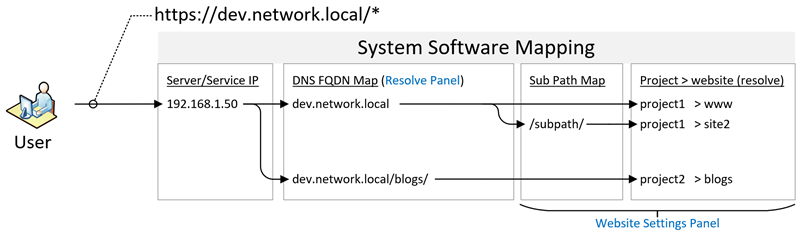
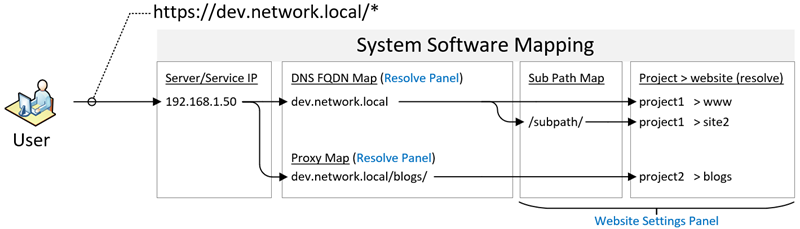
update help files

diff --git a/server/localhost/help/documents/7_Advanced_Uses/7-1_Project_Configuration_Files.html b/server/localhost/help/documents/7_Advanced_Uses/7-1_Project_Configuration_Files.html
@@ -1,8 +1,268 @@
 
 
-<h3>Project Configuration File</h3>
+<h1>Project Configuration Files</h1>
 <p>
-	The following is an example of the '<blue>config.json</blue>' file. Each project will have one of these which the server read and maps the websites vhost preview in Management UI, proxy mapping and DNS FQDN names via environment, maintenance mode for given website, error pages, and a series of sections like API mapping (server side execute), static path content and server execute overrides.
+   Each project has a configuration file associated with it that holds all the configuration settings needed for the VHost server process to register and map incoming requests to project websites. If the server is set to auto refresh, and making changes to these files, the system periodically reads the datestamp and sees a change had happened and will trigger a reload of the configuration file. If auto refresh is turned off it needs a server restart to reload the configuration files. These files can be modified or created manually and does not need the Management UI. The Management UI is basically a website hosted by the VHost server like any other website and is more of a helper UI that provides tools to manage these configurations. You could have other processes like script automation generate a configuration file with the website content and have a server process start up with the Managment UI turned off and even the source files removed if you want to prevent a Management UI from being enabled.
+   <br /><br />
+   The content files in the project are not monitored. The server will not reload a configuration for that type of change. If you added an API folder and put in files to run from the server, it will not reload until you have updated the configuration with the rules to tell it what to do with them. There is a cache setting however where it will unload any files that were run from the server after they execute. That is not related to configuration files changes.
+</p>
+<br />
+<h3>New Config</h3>
+<p>
+   When starting a new empty project the Managment UI creates a project folder in the '<blue>web_source</blue>' folder with a single '<blue>config.json</blue>' file (like below). Each project will have a similar layout with the general project settings, '<blue>proxy_map</blue>' section, '<blue>dns_names</blue>' section and '<blue>websites</blue>' parameters section.
+</p>
+<pre>
+   {
+      "project_desc": "New project",
+      "enabled": true,
+      "proxy_map": {
+          "dev": {},
+          "qa": {},
+          "stage": {},
+          "prod": {}
+      },
+      "dns_names": {
+          "dev": {},
+          "qa": {},
+          "stage": {},
+          "prod": {}
+      },
+      "websites": {}
+  }   
+</pre>
+<br />
+<p>
+   The following table breaks down the sections of a project configuration:
+</p>
+<div class="grid3">
+   <div class="grid1_sub_head">Section</div>
+   <div class="grid1_sub_head">Settings</div>
+   <div class="grid1_sub_head">Description</div>
+
+   <div class="grid1_col">project_desc</div>
+   <div class="grid1_col"><blue>text</blue></div>
+   <div class="grid1_col">Used only in the Management UI for project information</div>
+
+   <div class="grid1_col">enabled</div>
+   <div class="grid1_col"><blue>true</blue><br /><blue>false</blue></div>
+   <div class="grid1_col">Used to disable a project which unregisters any DNS or Proxy mapping</div>
+   
+   <div class="grid1_col">
+      "proxy_map": {<br />
+      &nbsp;&nbsp;&nbsp;"dev": {},<br />
+      &nbsp;&nbsp;&nbsp;"qa": {},<br />
+      &nbsp;&nbsp;&nbsp;"stage": {},<br />
+      &nbsp;&nbsp;&nbsp;"prod": {}<br />
+      }
+   </div>
+   <div class="grid1_col">see below</div>
+   <div class="grid1_col">Proxy Map configuration</div>
+
+   <div class="grid1_col">
+      "dns_names": {<br />
+      &nbsp;&nbsp;&nbsp;"dev": {},<br />
+      &nbsp;&nbsp;&nbsp;"qa": {},<br />
+      &nbsp;&nbsp;&nbsp;"stage": {},<br />
+      &nbsp;&nbsp;&nbsp;"prod": {}<br />
+      }
+   </div>
+   <div class="grid1_col">see below</div>
+   <div class="grid1_col">DNS Map configuration</div>
+
+   <div class="grid1_col">"websites": {}</div>
+   <div class="grid1_col">see below</div>
+   <div class="grid1_col">Websites configurations</div>
+
+</div>
+<br />
+<h3>Websites Configuration Section</h3>
+<p>
+   In the '<blue>websites</blue>' configuration section, after creating a website and configuring it from the Management UI, the configuration elements will look a lot like below. All things that you see in the Management UI pertaining to the website settings are in this section. Everything from SSL redirect, maintenance mode settings, default pages, content mapping and sub mapping are in below example. If having more than one website in a project there will be multiple sections like this.
+</p>
+<pre>
+   "www": {
+      "ssl_redirect": true,
+      "maintenance": {
+         "dev": false,
+         "qa": false,
+         "stage": false,
+         "prod": false
+      },
+      "maintenance_page": "maintenance.html",
+      "maintenance_page_api": "maintenance.json",
+      "default_doc": "index.html",
+      "default_errors": {
+         "user": {
+            "404": "404.html",
+            "500": "500.html"
+         },
+         "api": {
+            "404": "404.json",
+            "500": "500.json"
+         }
+      },
+      "apis_fixed_path": {},
+      "apis_dynamic_path": {
+         "/api/": "/www/api/"
+      },
+      "path_static": {
+         "/": "/www/"
+      },
+      "path_static_server_exec": {},
+      "sub_map": {}
+   }
+</pre>
+<br />
+<p>
+   The following table breaks down the sections of a website configuration:
+</p>
+<div class="grid3">
+   <div class="grid1_sub_head">Section</div>
+   <div class="grid1_sub_head">Settings</div>
+   <div class="grid1_sub_head">Description</div>
+
+   <div class="grid1_col">ssl_redirect</div>
+   <div class="grid1_col"><blue>true</blue><br /><blue>false</blue></div>
+   <div class="grid1_col">SSL redirect uses boolean value</div>
+
+   <div class="grid1_col">
+      "maintenance": {<br />
+      &nbsp;&nbsp;&nbsp;"dev": <blue>false</blue>,<br />
+      &nbsp;&nbsp;&nbsp;"qa": <blue>false</blue>,<br />
+      &nbsp;&nbsp;&nbsp;"stage": <blue>false</blue>,<br />
+      &nbsp;&nbsp;&nbsp;"prod": <blue>false</blue><br />
+      }
+   </div>
+   <div class="grid1_col"><blue>true</blue><br /><blue>false</blue></div>
+   <div class="grid1_col">Each environment uses a boolean value</div>
+
+   <div class="grid1_col">maintenance_page</div>
+   <div class="grid1_col"><blue>filename</blue></div>
+   <div class="grid1_col">Typically an HTML file for user response</div>
+
+   <div class="grid1_col">maintenance_page_api</div>
+   <div class="grid1_col"><blue>filename</blue></div>
+   <div class="grid1_col">Typically an data type file for API response</div>
+
+   <div class="grid1_col">default_doc</div>
+   <div class="grid1_col"><blue>filename</blue></div>
+   <div class="grid1_col">Typically an HTML file for user response</div>
+
+   <div class="grid1_col">
+      "default_errors": {<br />
+      &nbsp;&nbsp;&nbsp;"user": {<br />
+      &nbsp;&nbsp;&nbsp;&nbsp;&nbsp;&nbsp;"404": "<blue>404.html</blue>",<br />
+      &nbsp;&nbsp;&nbsp;&nbsp;&nbsp;&nbsp;"500": "<blue>500.html</blue>"<br />
+      &nbsp;&nbsp;&nbsp;},<br />
+      &nbsp;&nbsp;&nbsp;"api": {<br />
+      &nbsp;&nbsp;&nbsp;&nbsp;&nbsp;&nbsp;"404": "<blue>404.json</blue>",<br />
+      &nbsp;&nbsp;&nbsp;&nbsp;&nbsp;&nbsp;"500": "<blue>500.json</blue>"<br />
+      &nbsp;&nbsp;&nbsp;}<br />
+      }
+   </div>
+   <div class="grid1_col"><blue>filename</blue></div>
+   <div class="grid1_col">Typically an HTML file for user response, data type file for API response</div>
+
+   <div class="grid1_col">
+      "apis_fixed_path": {<br />
+      &nbsp;&nbsp;&nbsp;"<green>/api/</green>": "<blue>/www/api/file.js</blue>"<br />
+      }
+   </div>
+   <div class="grid1_col"><green>relative URI path</green><br /><blue>target file</blue></div>
+   <div class="grid1_col">API Fixed Path Mapping telling server to map a website URL path to a specific file</div>
+
+   <div class="grid1_col">
+      "apis_dynamic_path": {<br />
+      &nbsp;&nbsp;&nbsp;"<green>/api/</green>": "<blue>/www/api/</blue>"<br />
+      }
+   </div>
+   <div class="grid1_col"><green>relative URI path</green><br /><blue>target path</blue></div>
+   <div class="grid1_col">API Dynamic Path Mapping telling server to execute on server for any file in target path</div>
+
+   <div class="grid1_col">
+      "path_static": {<br />
+      &nbsp;&nbsp;&nbsp;"<green>/</green>": "<blue>/www/</blue>"<br />
+      }
+   </div>
+   <div class="grid1_col"><green>relative URI path</green><br /><blue>target path</blue></div>
+   <div class="grid1_col">Static Path Mapping is typically your website root for static content</div>
+
+   <div class="grid1_col">
+      "path_static_server_exec": {<br />
+      &nbsp;&nbsp;&nbsp;"<green>/file.js</green>": "<blue>/www/file.js</blue>"<br />
+      }
+   </div>
+   <div class="grid1_col"><green>relative URI target</green><br /><blue>target file</blue></div>
+   <div class="grid1_col">Static Path Server Execute Override is used to override a static content file and tell server to execute server side</div>
+
+   <div class="grid1_col">
+      "sub_map": {<br />
+      &nbsp;&nbsp;&nbsp;"<green>/path/</green>": "<blue>website</blue>"<br />
+      }
+   </div>
+   <div class="grid1_col"><green>relative URI path</green><br /><blue>website_name</blue></div>
+   <div class="grid1_col">Sub Mapping for mapping a URI path to another website</div>
+
+</div>
+<br /><br />
+<h3>Mapping Configuration Section</h3>
+<p>
+   Regarding the mapping sections, these are where domain names are linked to the website you are serving. DNS FQDN and Proxy mapping are meant to be decoupled from the server configuration settings for portability. You might have a single development environment that holds all projects and websites data and then push these projects to different web services. The environments may be pre-configured with all the DNS resolutions to server IPs or load balancers. This allows for setting a server environment up once and not have to reconfigure every time you add a web site to an environment. There is no need to create different virtual hosts, DNS resolutions in server configurations (if running more than one domain on a server). The minimum actions needed is setting the DNS services to reolve to server or load balancer, copy project source files to the web source folder locations and restart the web server services (if auto refresh is off).
+   <br /><br />
+   Below is an example of proxy map and DNS FQDN names sections of how they would look per an environment. They are simply domain or domain + path to website name. They do not contain 'http://' or 'https://'. See SSL redirect in the website settings that tells the server it needs to redirect from HTTP (unsecured) to HTTPS (secured) connection.
+</p>
+<pre>
+"proxy_map": {
+   "dev": {
+      "dev.network.local/path/": "www"
+   },
+   "qa": {},
+   "stage": {},
+   "prod": {}
+},
+"dns_names": {
+   "dev": {
+      "dev.network.local": "www"
+   },
+   "qa": {},
+   "stage": {},
+   "prod": {}
+},
+</pre>
+<br />
+<p>
+   The following table breaks down the sections of a project configuration:
+</p>
+<div class="grid3">
+   <div class="grid1_sub_head">Section</div>
+   <div class="grid1_sub_head">Settings</div>
+   <div class="grid1_sub_head">Description</div>
+
+   <div class="grid1_col">
+      "proxy_map": {<br />
+      &nbsp;&nbsp;&nbsp;"<purple>dev</purple>": {<br />
+      &nbsp;&nbsp;&nbsp;&nbsp;&nbsp;&nbsp;"<green>dev.network.local/path/</green>": "<blue>www</blue>"<br />
+      &nbsp;&nbsp;&nbsp;},<br />
+      &nbsp;&nbsp;&nbsp;"<purple>qa</purple>": {},<br />
+      &nbsp;&nbsp;&nbsp;"<purple>stage</purple>": {},<br />
+      &nbsp;&nbsp;&nbsp;"<purple>prod</purple>": {}<br />
+      },<br />
+      "dns_names": {<br />
+      &nbsp;&nbsp;&nbsp;"<purple>dev</purple>": {<br />
+      &nbsp;&nbsp;&nbsp;&nbsp;&nbsp;&nbsp;"<green>dev.network.local</green>": "<blue>www</blue>"<br />
+      &nbsp;&nbsp;&nbsp;},<br />
+      &nbsp;&nbsp;&nbsp;"<purple>qa</purple>": {},<br />
+      &nbsp;&nbsp;&nbsp;"<purple>stage</purple>": {},<br />
+      &nbsp;&nbsp;&nbsp;"<purple>prod</purple>": {}<br />
+      }
+   </div>
+   <div class="grid1_col">environment = <purple>dev, qa, stage, prod</purple><br />proxy_map = <green>domain + path</green><br />dns_names = <green>domain</green><br /><blue>website_name</blue></div>
+   <div class="grid1_col">In each environment and for mapping types, these are typical settings</div>
+</div>
+<br />
+<h3>Full Configuration</h3>
+<p>
+	Once you pull it all together, you have a full configuration for a project with one website, one DNS mapping for a development environment.
 </p>
 <pre>
    {
@@ -16,14 +276,14 @@
       },
       "dns_names": {
          "dev": {
-            "localtest.network.local": "website_name"
+            "dev.network.local": "www"
          },
          "qa": {},
          "stage": {},
          "prod": {}
       },
       "websites": {
-         "website_name": {
+         "www": {
             "ssl_redirect": true,
             "maintenance": {
                "dev": false,
@@ -46,10 +306,10 @@
             },
             "apis_fixed_path": {},
             "apis_dynamic_path": {
-               "/api/": "/website_name/api/"
+               "/api/": "/www/api/"
             },
             "path_static": {
-               "/": "/website_name/"
+               "/": "/www/"
             },
             "path_static_server_exec": {},
             "sub_map": {}

diff --git a/server/localhost/help/documents/6_Proxy_and_DNS_Resolution/6-04_Create_Resolve_Map.html b/server/localhost/help/documents/6_Proxy_and_DNS_Resolution/6-04_Create_Resolve_Map.html
@@ -11,6 +11,38 @@
 <br />
 <img src="/help/images/6_resolve_map_create_project.png" alt="" />
 <br /><br />
+<p>
+    Fill in all the other fields required (table below) then click the add <img src="/images/add_icon.png" alt="" /> icon to complete creation of mapping.
+</p>
+<div class="grid2">
+    <div class="grid2_sub_head">Map Type</div>
+    <div class="grid1_col">Proxy Map</div>
+    <div class="grid1_col">Mapping in format of domain + path</div>
+    <div class="grid1_col">DNS FQDN</div>
+    <div class="grid1_col">Mapping in format of domain only</div>
+    <div class="grid2_sub_head">Environment</div>
+    <div class="grid1_col">dev</div>
+    <div class="grid1_col">Development</div>
+    <div class="grid1_col">qa</div>
+    <div class="grid1_col">QA (Test)</div>
+    <div class="grid1_col">stage</div>
+    <div class="grid1_col">Stage (Prod Data Test)</div>
+    <div class="grid1_col">prod</div>
+    <div class="grid1_col">Production Environment</div>
+    <div class="grid2_sub_head">URL</div>
+    <div class="grid2_col">Freeform field for domain or domain + path</div>
+    <div class="grid2_sub_head">Website Target</div>
+    <div class="grid2_col">Select project website, blank list means none created for select project</div>
+</div>
+<br /><br />
+<img src="/help/images/6_resolve_map_create_all_fields.png" alt="" />
+<br /><br />
+<p>
+    Once added it will show up in the list and ready to view (as long as the domain name is resolved to server IP).
+</p>
+<br />
+<img src="/help/images/6_resolve_map_created.png" alt="" />
+<br /><br />
 <br />
 <br />
 <br />

diff --git a/server/localhost/help/documents/6_Proxy_and_DNS_Resolution/6-05_Delete_Mapping.html b/server/localhost/help/documents/6_Proxy_and_DNS_Resolution/6-05_Delete_Mapping.html
@@ -1,0 +1,31 @@
+<h1>Delete Resolve Map</h1>
+<p>
+    The resolve panel is where you delete the resolution mapping to projects and website. See the example with red box below which is made up of the list of current resolution settings and a row at the bottom for creating new resolve mappings. 
+</p>
+<br />
+<img src="/help/images/6_resolve_panel.png" alt="" />
+<br /><br />
+<p>
+    Select the delete <img src="/images/delete_icon.png" alt="" /> icon beside the URL you want to delete.
+</p>
+<br />
+<img src="/help/images/6_resolve_map_delete.png" alt="" />
+<br /><br />
+<p>
+    Confirm '<blue>Yes</blue>' to delete the entry.
+</p>
+<br />
+<img src="/help/images/6_resolve_map_delete_confirm.png" alt="" />
+<br /><br />
+<p>
+    Once deletes it will from the list.
+</p>
+<br />
+<img src="/help/images/6_resolve_map_delete_complete.png" alt="" />
+<br /><br />
+<br />
+<br />
+<br />
+<br />
+<br />
+<br />

diff --git a/server/localhost/help/css/help.css b/server/localhost/help/css/help.css
@@ -61,6 +61,13 @@ pre {
     overflow: auto;
     padding: 10px;
 }
+pre.tbl {
+    -webkit-box-shadow: none; 
+    box-shadow: none;
+    border: none;
+    padding: 0px;
+    margin: 0px;
+}
 
 @media screen and (max-width:805px) {
 	p {
